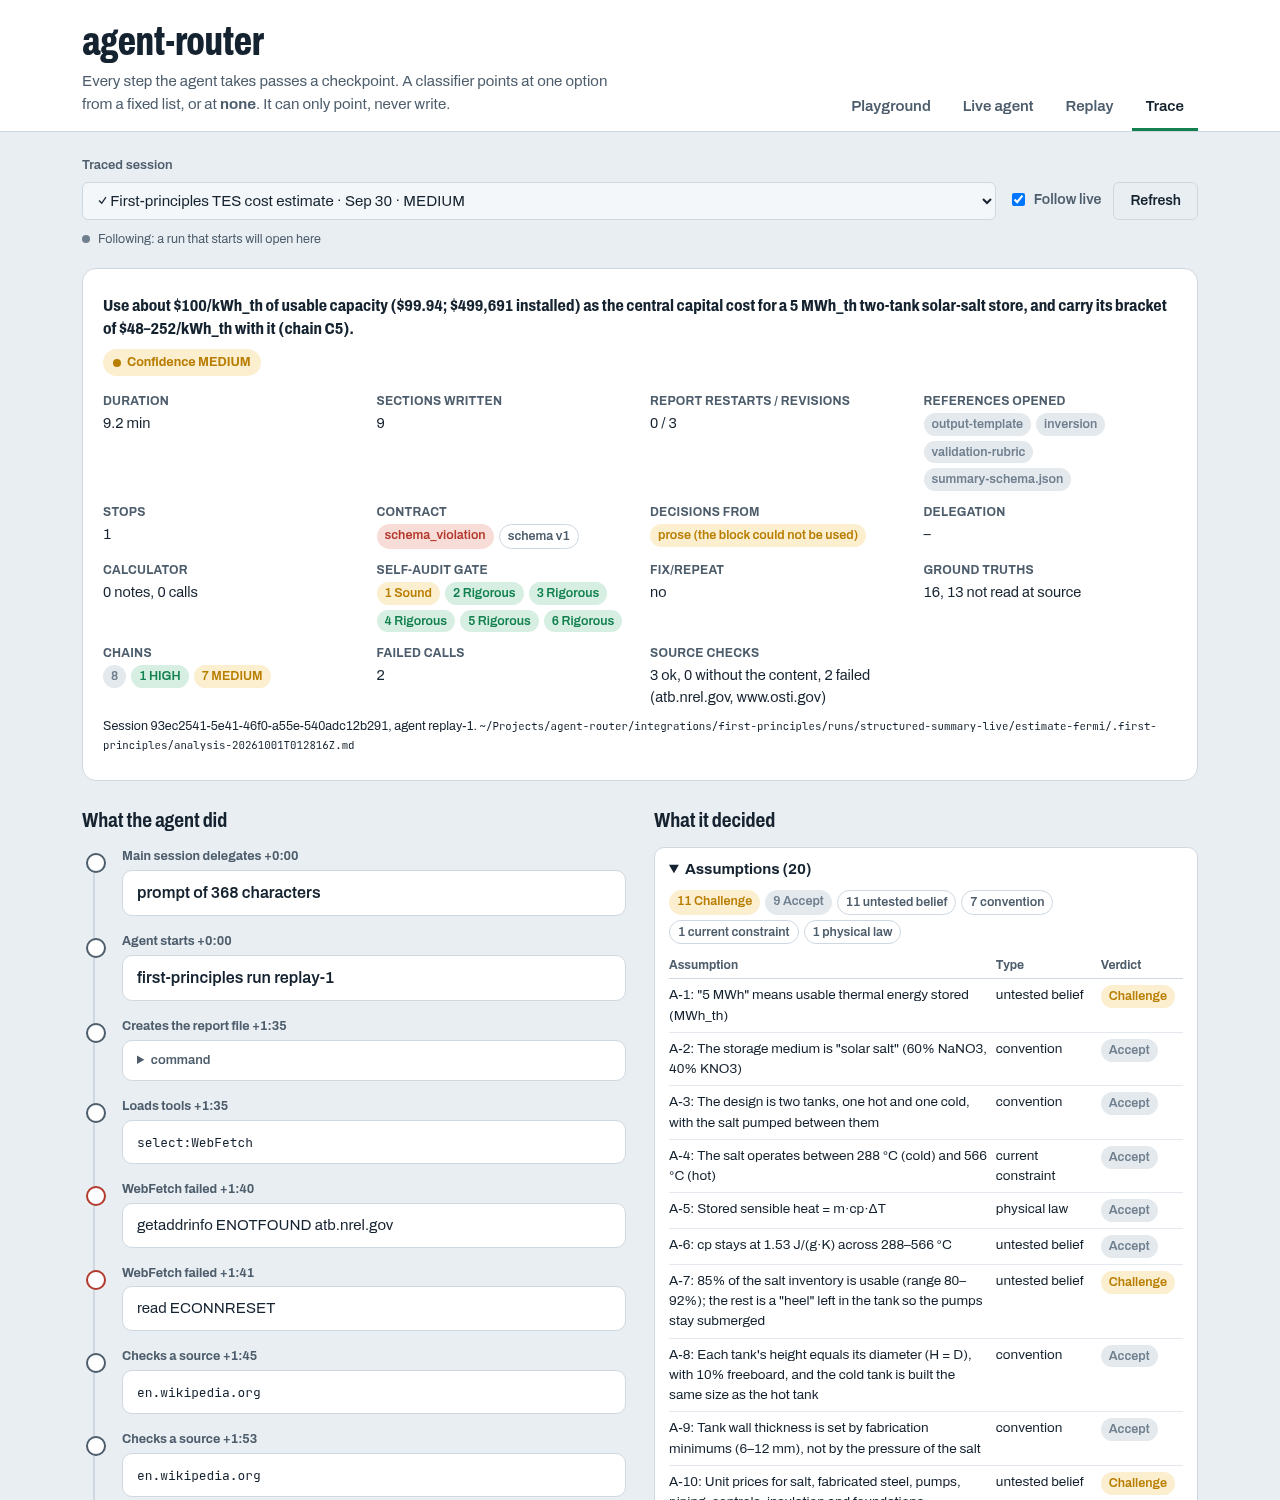
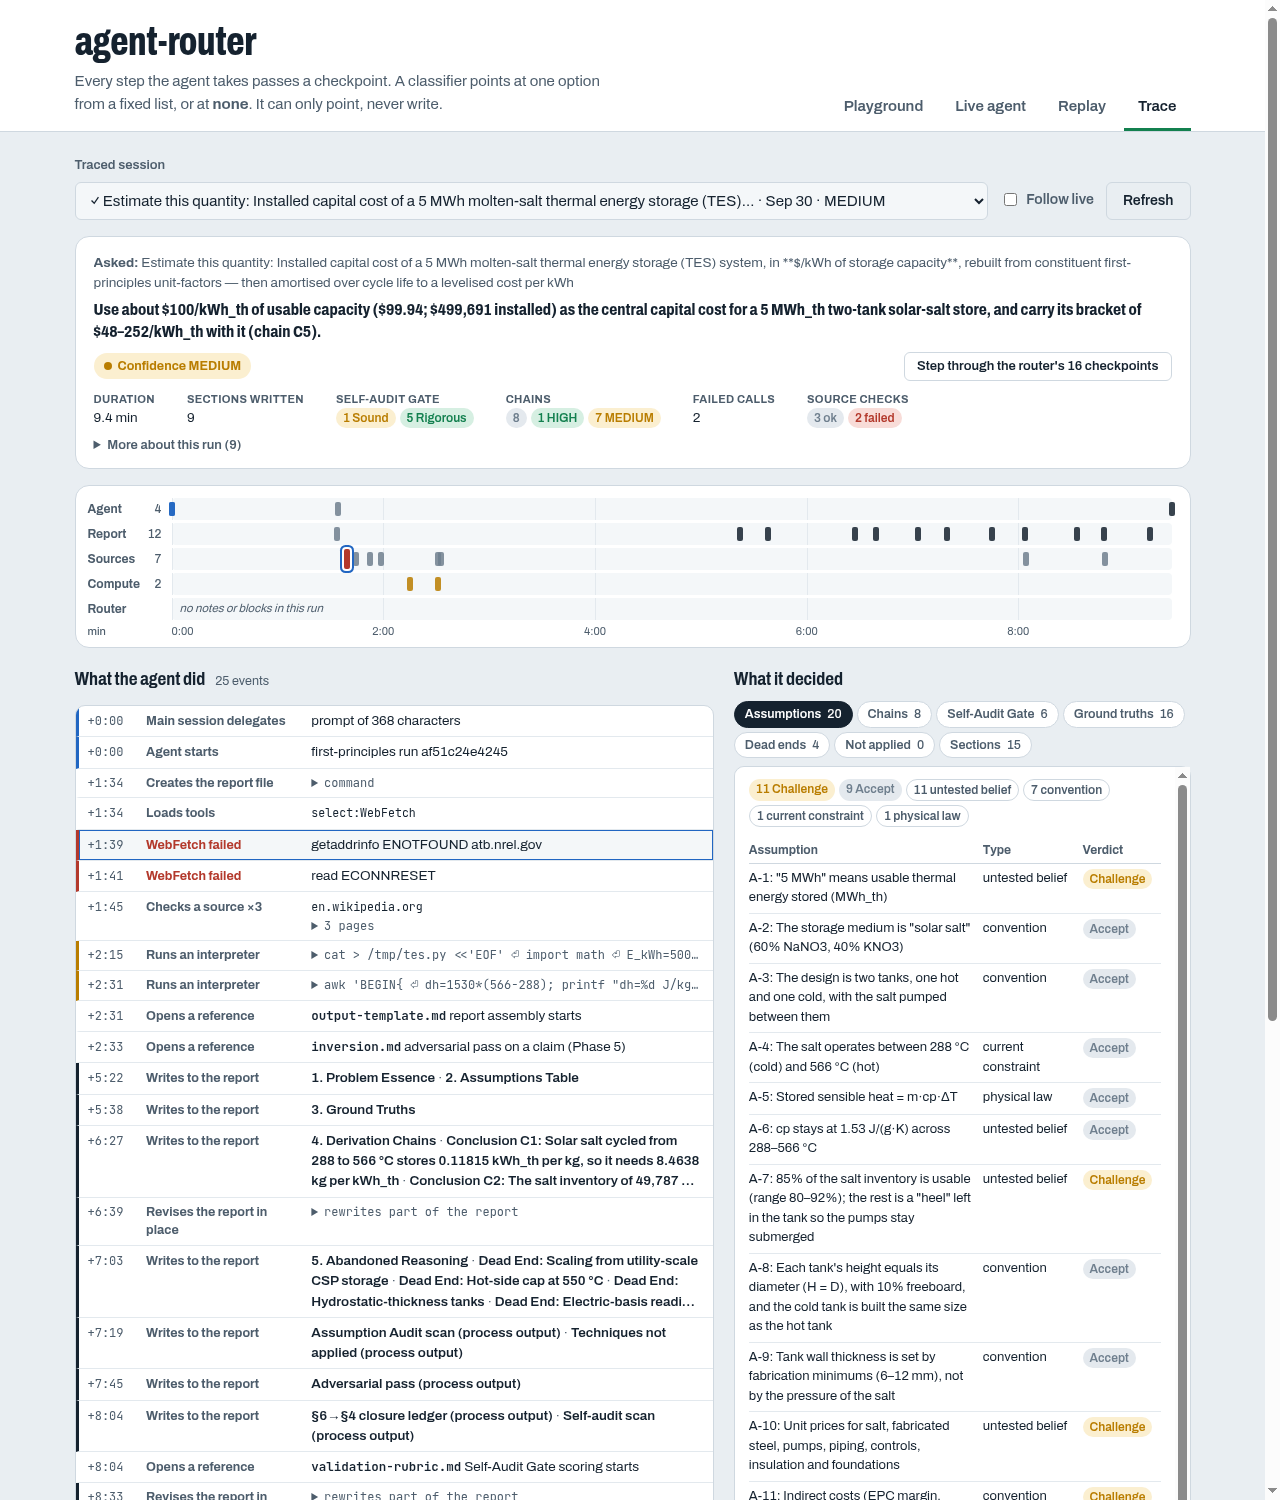
docs: describe the swimlane Trace tab and retake its screenshot

diff --git a/docs/technical-guide.md b/docs/technical-guide.md
@@ -114,9 +114,13 @@ The demo has four tabs:
   shows both stages.
 - **Live agent** streams a real SDK run: hooks, decisions, tool calls and the answer.
 - **Replay** steps through an audit session. `audit/sample-session.jsonl` is included.
-- **Trace** shows an integration's decision trace for a session: a summary (conclusion, gate
-  bands, delegation and calculator notes), a timeline of what the agent did with the router's notes
-  placed where they fired, and the decisions parsed from its report. It reads `--trace-dir`
+- **Trace** shows an integration's decision trace for a session: a summary (conclusion and the key
+  numbers, the other run facts folded under **More about this run**), a swimlane chart of the run
+  (agent, report, sources, compute and router lanes over the run's clock), a one-line-per-event log
+  with the router's notes placed where they fired (consecutive calculator calls, shell commands and
+  checks of one source fold into one line), and the decisions parsed from its report, one tab per
+  part. A mark in the chart selects its line in the log; the log and the decisions scroll in their
+  own panes, so the page itself stays about a screen tall. It reads `--trace-dir`
   (default: `trace/` next to `--audit-dir`); `--state-dir <root>` sets both to `<root>/audit` and
   `<root>/trace`. While open, the tab re-reads the trace every 3 seconds, so it follows a run as it
   happens (**Follow live**). Each session is labelled by the hand-off's description, else the

diff --git a/README.md b/README.md
@@ -71,9 +71,9 @@ The page has four tabs:
 | **Playground** | Test the gatekeeper on one step. You describe the step, it shows its decision. No agent runs. | Free (a fraction of a cent if Jev is asked) |
 | **Live agent** | Give a real Claude agent a task and watch every checkpoint happen, step by step. | A few cents per run |
 | **Replay** | Step back through any earlier run, one checkpoint at a time. | Free |
-| **Trace** | What an integrated agent did and decided in a run (for now, the first-principles agent): sections written, references opened, calculator use against the router's notes, the parsed conclusion, assumptions and Self-Audit Gate. Follows a run live (`make trace`). | Free |
+| **Trace** | What an integrated agent did and decided in a run (for now, the first-principles agent), on one screen: a swimlane chart of the run over time, a one-line log of every step (sections written, references opened, calculator use against the router's notes), and the parsed conclusion, assumptions and Self-Audit Gate in tabs. Follows a run live (`make trace`). | Free |
 
-![The Trace tab: a first-principles run's summary card, what the agent did, and what it decided](docs/img/demo-trace.png)
+![The Trace tab: a first-principles run's summary, its swimlane chart, the event log and the decision tabs](docs/img/demo-trace.png)
 
 ### How to read a decision
 

diff --git a/CHANGELOG.md b/CHANGELOG.md
@@ -6,6 +6,18 @@ Format: [Keep a Changelog](https://keepachangelog.com/en/1.1.0/); versions follo
 
 ## [Unreleased]
 
+### Changed
+
+- **Trace tab layout.** The tab is now about one screen instead of several: a swimlane chart of
+  the run (agent, report, sources, compute, router) over the run's clock, a one-line-per-event log
+  beside the decisions, each scrolling in its own pane, and the decisions as tabs (assumptions,
+  chains, Self-Audit Gate, ground truths, dead ends, techniques not applied, sections). Clicking a
+  mark selects its line in the log. Repeated checks of one source fold into one line, the summary
+  shows the key numbers and folds the rest under **More about this run**, and a live refresh keeps
+  the chosen tab, the selection and the log's scroll position (following the newest event when the
+  log was at its end). On a saved 57-event run the page went from about 6,500 px to about
+  1,650 px tall in a 1280×1000 window.
+
 ### Added
 
 - **Route parity.** A first-principles run started from a plain prompt now ends like one started

diff --git a/integrations/first-principles/README.md b/integrations/first-principles/README.md
@@ -288,8 +288,9 @@ The trace keeps the report itself, so it still reads after the analysis file is 
 Replaying the 28 example captures with their reports removed gives decisions for all 28:
 22 match the real report exactly, and the other 6 are marked inexact.
 
-**In the demo.** The **Trace** tab shows each run: a summary card, a timeline of what the agent
-did with the router's notes placed where they fired, and the decisions parsed from its report.
+**In the demo.** The **Trace** tab shows each run: a summary card, a swimlane chart of the run
+over time, a compact log of what the agent did with the router's notes placed where they fired, and
+the decisions parsed from its report, one tab per part.
 
 ![Trace tab: the estimate-fermi example replayed through today's trace.py](../../docs/img/demo-trace.png)
 
